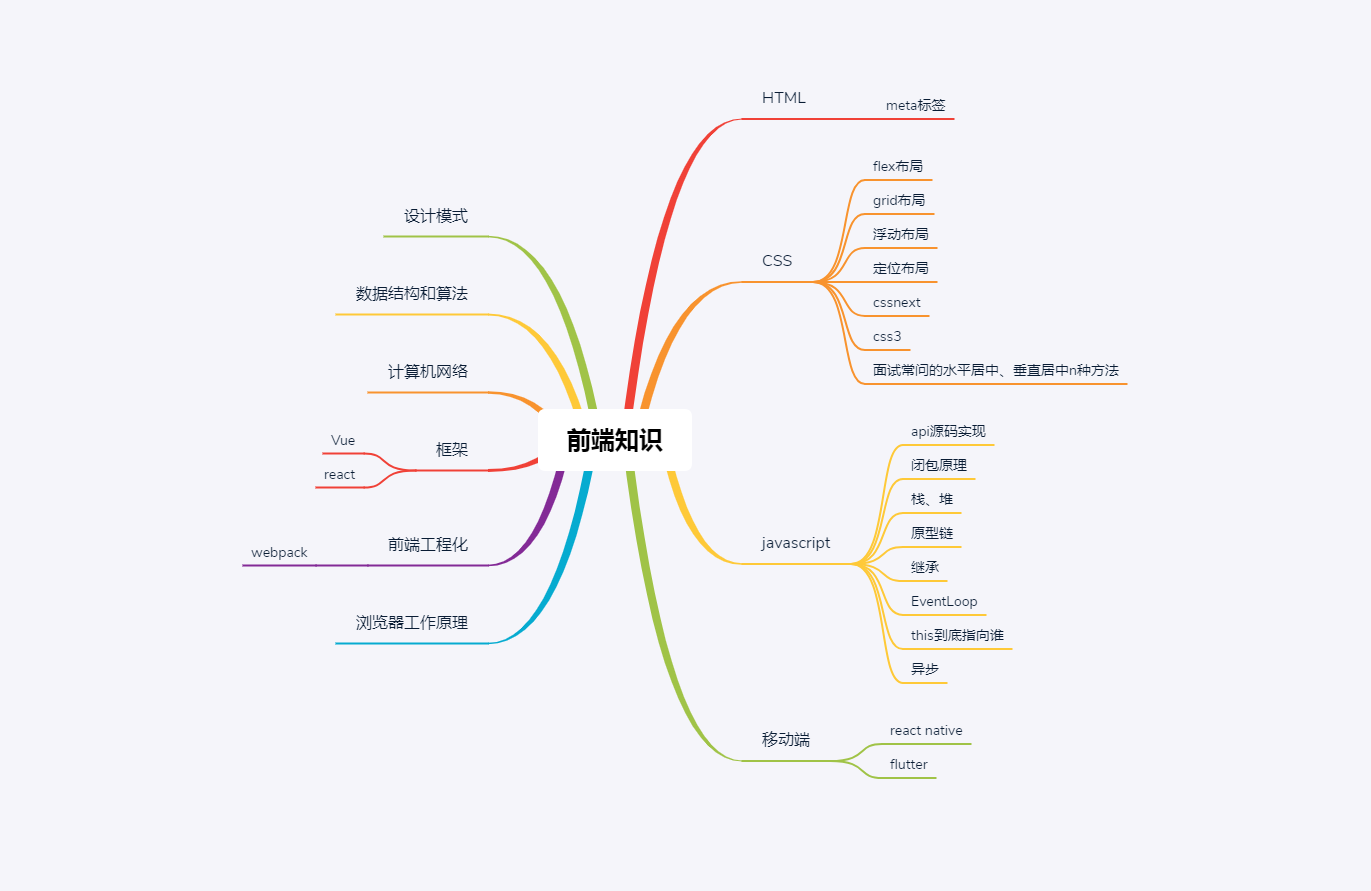
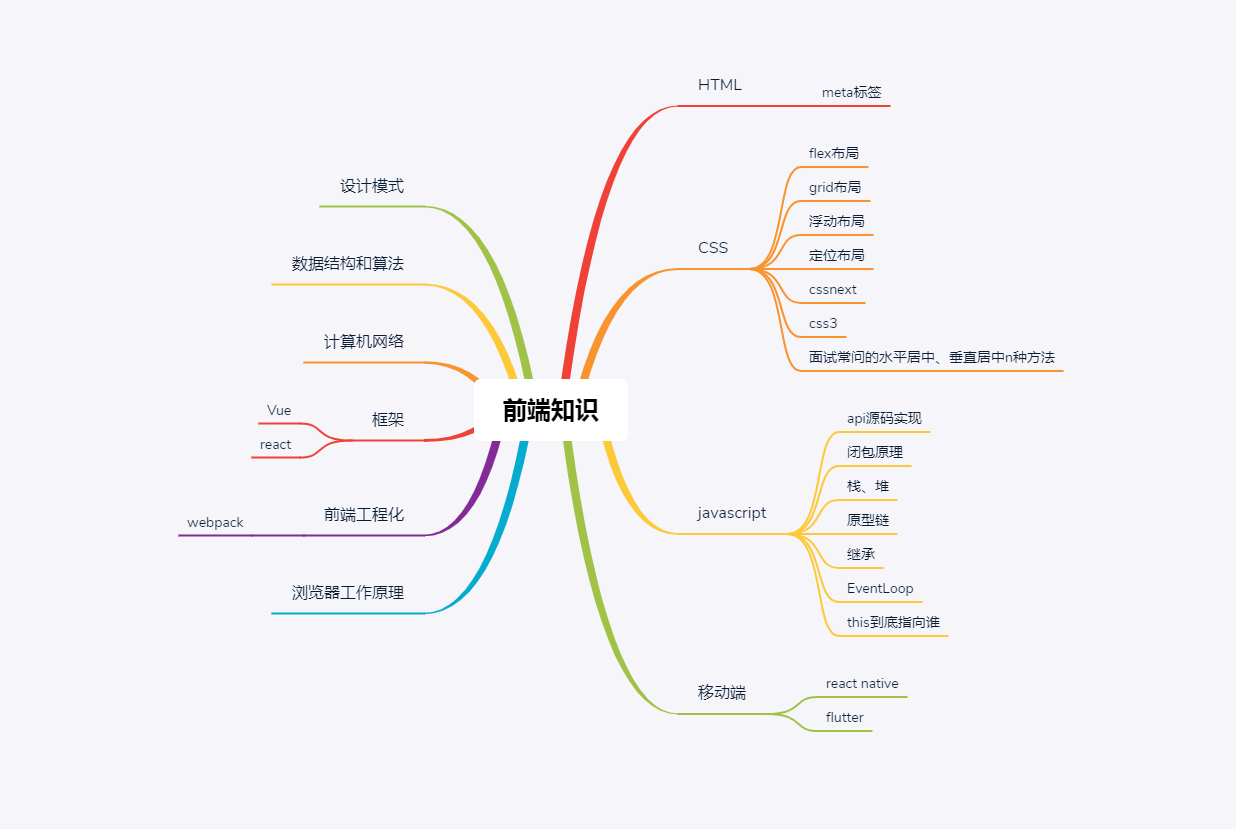
增加继承

diff --git a/javascript/继承.md b/javascript/继承.md
@@ -1,0 +1,78 @@
+#### 传统继承 －－》原型链
+     缺点：过多的继承链没用的属性
+
+```
+     Grand.prototype.lastName = '张三';
+     function Grand(){
+
+     }
+     var grand = new Geand();
+     Father.prototype = grand;
+     function Father(){
+         this.name = '王五';
+     }
+     var father = new Father();
+     Son.prototype = father;
+     function Son(){
+         this.hobbit = '赵六';
+     }
+     var son = new Son()
+
+```
+2.借用构造函数
+缺点：
+1.不能继承借用构造函数的原型
+ 2.每次构造函数都要多走一个函数 （每次执行了两个方法）
+
+```
+    function Person(name,age,sex){
+         this.name = name;
+         this.age = age;
+         this.sex = sex;
+     }
+     function Student(name,age,sex,grade){
+         Person.call(this,name,age,sex);
+         this.grade = grade;
+     }
+     var student = new Student();
+    
+```
+3.共享原型
+缺点：不能随便改动自己的原型
+
+```
+    Father.prototype.lastName = '张三';
+    function Father(){
+
+    }
+    function Son(){
+
+    }
+    Son.prototype = Father.prototype;
+    var son = new Son();
+    var father = new Father();
+```
+4.圣杯模式
+
+```
+    Father.prototype.lastName = '张三';
+    function Father(){
+
+    }
+    function Son(){
+
+    }
+    var inherit = (function(){
+        var F = function(){};
+        return function(Target,Origin){
+            F.prototype = Origin.prototype;
+            Target.prototype = new F();
+            Target.prototype.constructor = Target;   //Target的constructor方法归位
+            Target.prototype.uber = Origin.prototype;// 超类，真正继承的来源
+        }
+
+    }())
+    inherit(Son,Father)
+    var son = new Son();
+    var father = new Father();
+```

diff --git a/javascript/前端开发技巧.md b/javascript/前端开发技巧.md
@@ -1,4 +1,4 @@
-## 多条件判断
+### 多条件判断
 
 ```javascript
 if(state === 1 || state === 2 || state === 3){}
